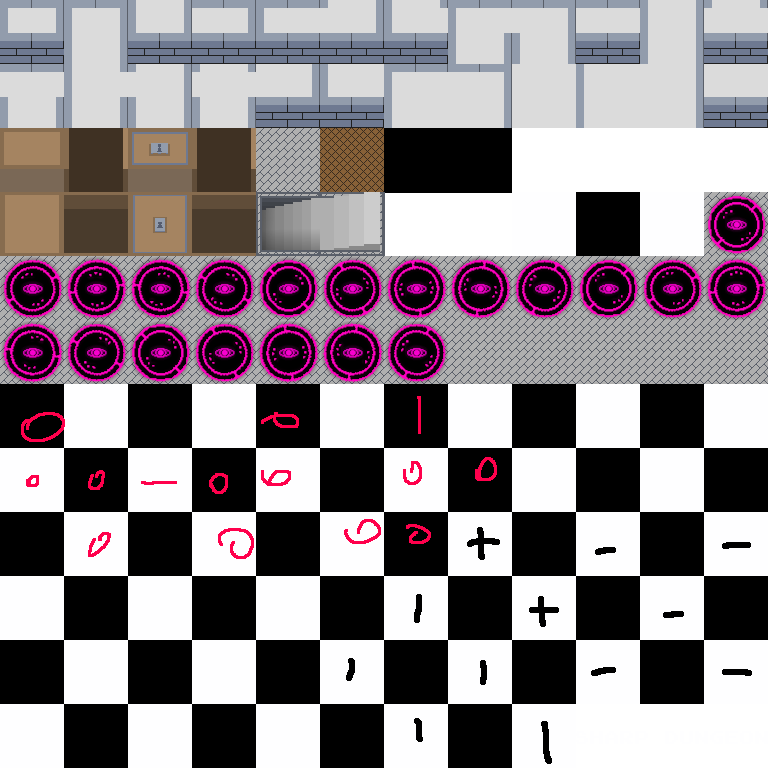
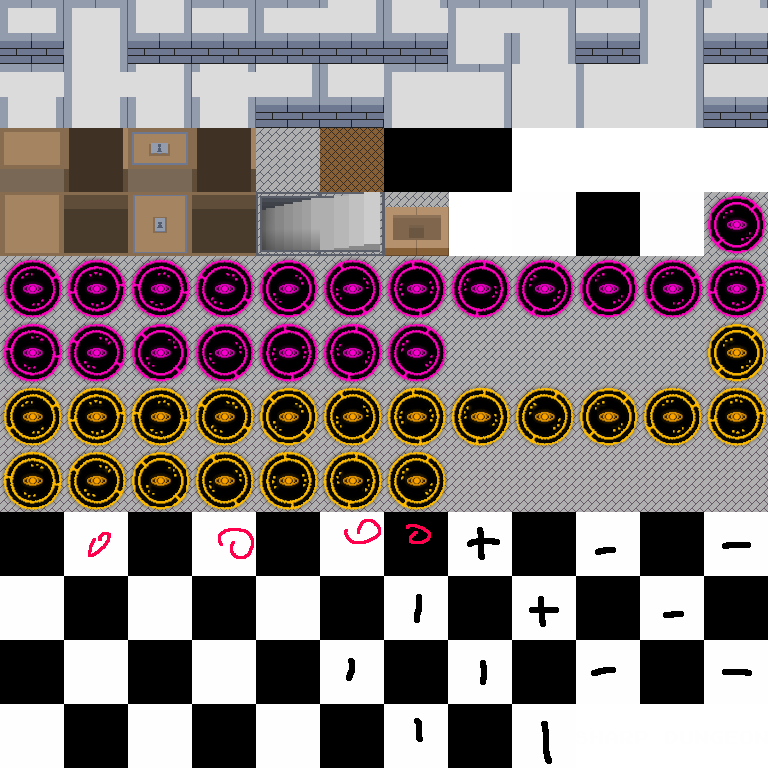
Added portals

Changed region(s): [[0.0, 0.4062, 1.0, 0.6875], [0.5, 0.25, 0.5938, 0.3438]]

diff --git a/SharpDungeon/Game/Graphics/Assets.cs b/SharpDungeon/Game/Graphics/Assets.cs
@@ -21,7 +21,7 @@ namespace SharpDungeon.Game.Graphics {
         //Tiles
 
         public static Bitmap air, stone, planks, upStairs, downStairs;
-        public static Bitmap[] stoneWall, door, shadowGate;
+        public static Bitmap[] stoneWall, door, shadowGate, etherGate;
 
         //Items
 
@@ -37,7 +37,7 @@ namespace SharpDungeon.Game.Graphics {
         //Player
 
         public static Bitmap[] playerIdle, playerWalkLeft, playerWalkRight, playerAttackLeft, playerAttackRight;
-        public static Bitmap[] slimeIdle, slimeWalk, slimeAttack;
+        public static Bitmap[] slimeIdle, slimeWalk, slimeAttackLeft, slimeAttackRight;
 
         public static Bitmap selection;
 
@@ -46,6 +46,9 @@ namespace SharpDungeon.Game.Graphics {
         public static Bitmap logo;
         public static Bitmap background, backgroundLoading;
         public static Bitmap[] newGameButton, loadSeedButton, optionsButton, exitButton;
+        public static Brush uiFore = new SolidBrush(Color.FromArgb(128, 128, 128));
+        public static Brush uiCent = new SolidBrush(Color.FromArgb(86, 86, 86));
+        public static Brush uiBack = new SolidBrush(Color.FromArgb(63, 63, 63));
 
         //Brushes
 
@@ -54,6 +57,8 @@ namespace SharpDungeon.Game.Graphics {
         public static Brush minMapBlack = new SolidBrush(Color.FromArgb(0, 0, 0));
         public static Brush minMapDoor = new SolidBrush(Color.FromArgb(122, 104, 86));
         public static Brush minMapOpenDoor = new SolidBrush(Color.FromArgb(142, 130, 119));
+        public static Brush minMapShadow = new SolidBrush(Color.FromArgb(153, 61, 137));
+        public static Brush minMapEther = new SolidBrush(Color.FromArgb(204, 155, 71));
 
         //Load textures
 
@@ -126,6 +131,29 @@ namespace SharpDungeon.Game.Graphics {
                 shadowGate[16] = tileSheet.crop(width * 3, height * 5, width, height);
                 shadowGate[17] = tileSheet.crop(width * 4, height * 5, width, height);
                 shadowGate[18] = tileSheet.crop(width * 5, height * 5, width, height);
+
+                etherGate = new Bitmap[19];
+                etherGate[0] = tileSheet.crop(width * 11, height * 5, width, height);
+
+                etherGate[1] = tileSheet.crop(0, height * 6, width, height);
+                etherGate[2] = tileSheet.crop(width, height * 6, width, height);
+                etherGate[3] = tileSheet.crop(width * 2, height * 6, width, height);
+                etherGate[4] = tileSheet.crop(width * 3, height * 6, width, height);
+                etherGate[5] = tileSheet.crop(width * 4, height * 6, width, height);
+                etherGate[6] = tileSheet.crop(width * 5, height * 6, width, height);
+                etherGate[7] = tileSheet.crop(width * 6, height * 6, width, height);
+                etherGate[8] = tileSheet.crop(width * 7, height * 6, width, height);
+                etherGate[9] = tileSheet.crop(width * 8, height * 6, width, height);
+                etherGate[10] = tileSheet.crop(width * 9, height * 6, width, height);
+                etherGate[11] = tileSheet.crop(width * 10, height * 6, width, height);
+                etherGate[12] = tileSheet.crop(width * 11, height * 6, width, height);
+
+                etherGate[13] = tileSheet.crop(0, height * 7, width, height);
+                etherGate[14] = tileSheet.crop(width, height * 7, width, height);
+                etherGate[15] = tileSheet.crop(width * 2, height * 7, width, height);
+                etherGate[16] = tileSheet.crop(width * 3, height * 7, width, height);
+                etherGate[17] = tileSheet.crop(width * 4, height * 7, width, height);
+                etherGate[18] = tileSheet.crop(width * 5, height * 7, width, height);
 
                 door = new Bitmap[4];
                 door[0] = tileSheet.crop(0, height * 2, width, height);

diff --git a/SharpDungeon/Game/Entities/Player.cs b/SharpDungeon/Game/Entities/Player.cs
@@ -15,6 +15,7 @@ namespace SharpDungeon.Game.Entities {
 
         Animation currentAnimation, walkLeft, walkRight;
         Bitmap stayTex;
+        public Inventory inventory { get; set; }
 
         Animation idle;
 
@@ -45,6 +46,7 @@ namespace SharpDungeon.Game.Entities {
             thisX = (int)x;
             thisY = (int)y;
 
+            inventory = new Inventory(handler);
             handler.game.gameCamera.centerOnEntity(this);
         }
 
@@ -56,6 +58,7 @@ namespace SharpDungeon.Game.Entities {
 
             currentAnimation.tick();
             handler.gameCamera.centerOnEntity(this);
+            inventory.tick();
 
                 //handler.world.setTile(Tile.shadowGate.getId(), 
                 //    handler.world.toWorldX(handler.mouseManager.mouseX), handler.world.toWorldY(handler.mouseManager.mouseY));
@@ -148,7 +151,8 @@ namespace SharpDungeon.Game.Entities {
 
             renderSelection(g);
 
-            g.FillRectangle(Brushes.White, 15, 15, handler.world.width * 8 + 10, handler.world.height * 8 + 10);
+            g.FillRectangle(Assets.uiFore, 5+10, 5+10, handler.world.width * 8 + 10, handler.world.height * 8 + 10);
+            g.FillRectangle(Assets.uiCent, 5+12, 5+12, handler.world.width * 8 + 8, handler.world.height * 8 + 8);
 
             for (int j = 0; j < handler.world.height; j++) {
                 for (int i = 0; i < handler.world.width; i++) {
@@ -159,6 +163,12 @@ namespace SharpDungeon.Game.Entities {
                         b = Assets.minMapDoor;
                     else if (tile is OpenDoorTile)
                         b = Assets.minMapBack;
+                    else if (tile is AirTile)
+                        b = Assets.minMapBlack;
+                    else if (tile is ShadowGateTile)
+                        b = Assets.minMapShadow;
+                    else if (tile is EtherGateTile)
+                        b = Assets.minMapEther;
                     else if (tile.isSolid())
                         b = Assets.minMapSolid;
                     else if (tile is StoneTile)
@@ -168,6 +178,8 @@ namespace SharpDungeon.Game.Entities {
                 }
             }
             TextRenderer.DrawText(g, $"offsetx = {handler.gameCamera.xOffset}\noffsety = {handler.gameCamera.yOffset}\nmid = {handler.mouseManager.mouseMid}\nmove = {handler.mouseManager.move}\ndirectionisnull? = {direction == null}\nwasMid = {wasMid}\nwasMid2 = {wasMid2}\nthisX = {thisX}\nthisY = {thisY}\ndirStepX = {dirStepX}\ndirStepY = {dirStepY}\nisRightAnimation = { ((int)x / Tile.tileWidth > handler.world.toWorldX(handler.mouseManager.mouseX)).ToString() }", Assets.themeFont, new Point(0, 500), Color.White);
+
+            inventory.render(g);
         }
 
         private void renderSelection(System.Drawing.Graphics g) {
@@ -189,7 +201,7 @@ namespace SharpDungeon.Game.Entities {
                                           Tile.tileHeight);
 
             if (handler.mouseManager.rightPressed)
-                handler.world.itemManager.addItem(Item.redTrash1.createNew(handler.world.toWorldX(handler.mouseManager.mouseX)*Tile.tileWidth, 
+                handler.world.itemManager.addItem(Item.shadowKey.createNew(handler.world.toWorldX(handler.mouseManager.mouseX)*Tile.tileWidth, 
                                                                          handler.world.toWorldY(handler.mouseManager.mouseY)*Tile.tileHeight));
         }
 

diff --git a/SharpDungeon/Game/World/World.cs b/SharpDungeon/Game/World/World.cs
@@ -235,21 +235,31 @@ namespace SharpDungeon.Game.World {
             ree = rooms.ElementAt(rooms.Count - 1);
             setTile(Tile.shadowGate.getId(), ree.Left+1, ree.Top+2);
 
-            StreamWriter f = new StreamWriter("file.txt");
-            StringBuilder sb = new StringBuilder();
+            //StreamWriter f = new StreamWriter("file.txt");
+            //StringBuilder sb = new StringBuilder();
 
             Rectangle re;
             re = rooms.ElementAt(3);
             //sb.Append($"reLeftBefore = {re.Left}\nreTopBefore = {re.Top}\nxOffBefore = {handler.gameCamera.xOffset}\n yOffBefore = {handler.gameCamera.yOffset}\n\n\n");
             spawnX = (int)(re.X*64 + 64 - handler.gameCamera.xOffset);
             spawnY = (int)(re.Y*64 + 128 - handler.gameCamera.yOffset);
+            setTile(Tile.etherGate.getId(), re.Left + 1, re.Top + 2);
 
             //sb.Append($"reLeft = {re.Left}\nreTop = {re.Top}\n xOff = {handler.gameCamera.xOffset}\n yOff = {handler.gameCamera.yOffset}\nreLeft*64+64 - xOff = {re.Left * 64 + 64 - handler.gameCamera.xOffset}\nint = {(int)(re.Left * 64 + 64 - handler.gameCamera.xOffset)}\n reTop * 64 + 128 - yOff = {re.Top * 64 + 128 - handler.gameCamera.yOffset}\nint = {(int)(re.Top * 64 + 128 - handler.gameCamera.yOffset)}");
             //f.WriteLine(sb.ToString());
             //f.Close();
 
+
             entityManager = new EntityManager(handler, new Player(handler, spawnX, spawnY));
             itemManager = new ItemManager(handler);
+
+
+            foreach (Rectangle r in rooms.ToList()) {
+                for (int x = r.X; x < r.Width-1; x++)
+                    for (int y = r.Y; y < r.Height-1; y++)
+                        if(rnd.Next(1, 10) == 1 && !getTile(x, y).isSolid())
+                            itemManager.addItem(Item.items[rnd.Next(0, 2)].createNew(x*Tile.tileWidth, y*Tile.tileHeight));
+            }
 
         }
 

diff --git a/SharpDungeon/Game/Items/Item.cs b/SharpDungeon/Game/Items/Item.cs
@@ -57,31 +57,32 @@ namespace SharpDungeon.Game.Items {
             this.name = name;
             this.id = id;
             count = 1;
-            itemShadow = new Animation(300, Assets.itemShadow);
+            itemShadow = new Animation(250, Assets.itemShadow);
 
             items[id] = this;
         }
 
         public void tick() {
-            if (handler.world.entityManager.player.x == x && handler.world.entityManager.player.y == y)
+            if (handler.world.entityManager.player.x == x && handler.world.entityManager.player.y == y) {
                 pickedUp = true;
+                handler.world.entityManager.player.inventory.addItem(this);
+            }
 
             itemShadow.tick();
 
             if (grad < 360)
-                grad++;
+                grad+=4;
             else
                 grad = 0;
 
-            yOff = (int)(Math.Sin((Math.PI * grad * 5 / 180.0)) * 15);
-            //inventory here, see github page!
+            yOff = (int)(Math.Sin((Math.PI * grad * 3 / 180.0)) * 15);
         }
 
         public void render(System.Drawing.Graphics g) {
             if (handler == null)
                 return;
-            g.DrawImage(itemShadow.getCurrentFrame(), (int)(x - handler.gameCamera.xOffset), (int)(y - handler.gameCamera.yOffset)+Tile.tileHeight/3);
-            g.DrawImage(texture, (int)(x-handler.gameCamera.xOffset), (int)(y-handler.gameCamera.yOffset)+yOff, itemWidth, itemHeight);
+            g.DrawImage(itemShadow.getCurrentFrame(), (int)(x - handler.gameCamera.xOffset), (int)(y - handler.gameCamera.yOffset));
+            g.DrawImage(texture, (int)(x-handler.gameCamera.xOffset), (int)(y-handler.gameCamera.yOffset)+yOff-5, itemWidth, itemHeight);
         }
 
         public Item createNew(int count) {

diff --git a/SharpDungeon/Game/Tiles/EtherGateTile.cs b/SharpDungeon/Game/Tiles/EtherGateTile.cs
@@ -1,13 +1,12 @@
 using SharpDungeon.Game.Graphics;
 using System;
 using System.Collections.Generic;
-using System.Drawing;
 using System.Linq;
 using System.Text;
 using System.Threading.Tasks;
 
 namespace SharpDungeon.Game.Tiles {
-    public class ShadowGateTile : TileSingleSide {
+    public class EtherGateTile : TileSingleSide {
 
         Animation an;
         //Random rnd;
@@ -16,8 +15,8 @@ namespace SharpDungeon.Game.Tiles {
         //int posX=-1, posY=-1;
         //int time = 0;
 
-        public ShadowGateTile(int id) : base(Assets.shadowGate[0], id) {
-            an = new Animation(10, Assets.shadowGate);
+        public EtherGateTile(int id) : base(Assets.etherGate[0], id) {
+            an = new Animation(10, Assets.etherGate);
             //rnd = new Random();
         }
 
@@ -52,18 +51,5 @@ namespace SharpDungeon.Game.Tiles {
             return false;
         }
 
-        //public void splitn(int x1, int y1, int x2, int y2, List<int> arr, int cnt) {
-
-        //    --cnt;
-
-        //    int xMiddle = (int)(x1 + x2) / 2 + rnd.Next(-10, 10);
-        //    int yMiddle = (int)(y1 + y2) / 2 + rnd.Next(-10, 10);
-
-        //    if (cnt > 0) splitn(x1, y1, xMiddle, yMiddle, arr, cnt);
-        //    arr.Add(xMiddle);
-        //    arr.Add(yMiddle);
-        //    if (cnt > 0) splitn(xMiddle, yMiddle, x2, y2, arr, cnt);
-
-        //}
     }
 }

diff --git a/SharpDungeon/Game/Items/Inventory.cs b/SharpDungeon/Game/Items/Inventory.cs
@@ -1,14 +1,18 @@
-using System;
+using SharpDungeon.Game.Graphics;
+using System;
 using System.Collections.Generic;
+using System.Drawing;
 using System.Linq;
 using System.Text;
 using System.Threading.Tasks;
+using System.Windows.Forms;
 
 namespace SharpDungeon.Game.Items {
     public class Inventory {
         private Handler handler;
         private bool active = false;
         private List<Item> inventoryItems;
+        private int xOff;
 
         public Inventory(Handler handler) {
             this.handler = handler;
@@ -24,7 +28,13 @@ namespace SharpDungeon.Game.Items {
         }
 
         public void render(System.Drawing.Graphics g) {
-
+            xOff = 0;
+            foreach (Item i in inventoryItems) {
+                xOff += 20;
+                g.DrawImage(i.texture, handler.world.height * 8 + xOff, 10, Item.itemWidth * 2, Item.itemHeight * 2);
+                xOff += Item.itemHeight * 2;
+                TextRenderer.DrawText(g, i.count.ToString(), Assets.themeFontBig, new System.Drawing.Point(handler.world.height * 8 + xOff, + Item.itemHeight), Color.White);
+            }
         }
         
         public void addItem(Item item) {

diff --git a/SharpDungeon/Game/Items/ItemManager.cs b/SharpDungeon/Game/Items/ItemManager.cs
@@ -15,10 +15,16 @@ namespace SharpDungeon.Game.Items {
         }
         public void tick() {
 
-            IEnumerator<Item> it = items.GetEnumerator();
+            //IEnumerator<Item> it = items.GetEnumerator();
 
-            while (it.MoveNext()) {
-                Item i = it.Current;
+            //while (it.MoveNext()) {
+            //    Item i = it.Current;
+            //    i.tick();
+            //    if (i.pickedUp)
+            //        items.Remove(i);
+            //}
+
+            foreach(Item i in items.ToList()) {
                 i.tick();
                 if (i.pickedUp)
                     items.Remove(i);

diff --git a/SharpDungeon/Game/Entities/Slime.cs b/SharpDungeon/Game/Entities/Slime.cs
@@ -1,0 +1,25 @@
+using System;
+using System.Collections.Generic;
+using System.Drawing;
+using System.Linq;
+using System.Text;
+using System.Threading.Tasks;
+
+namespace SharpDungeon.Game.Entities {
+    public class Slime : Entity {
+        public Slime(Handler handler, int worldX, int worldY) : base(handler, worldX, worldY, defaultWidth, defaultHeight) {
+        }
+
+        public override void die() {
+            
+        }
+
+        public override void render(System.Drawing.Graphics g) {
+            
+        }
+
+        public override void tick() {
+            
+        }
+    }
+}

diff --git a/SharpDungeon/Game/Tiles/Tile.cs b/SharpDungeon/Game/Tiles/Tile.cs
@@ -18,6 +18,7 @@ namespace SharpDungeon.Game.Tiles {
         public static Tile openDoor = new OpenDoorTile(4);
         public static Tile planks = new PlanksTile(5);
         public static Tile shadowGate = new ShadowGateTile(6);
+        public static Tile etherGate = new EtherGateTile(7);
 
         public static readonly int tileWidth = 64,
                                    tileHeight = 64;

diff --git a/SharpDungeon/Game/Entities/EntityManager.cs b/SharpDungeon/Game/Entities/EntityManager.cs
@@ -23,7 +23,7 @@ namespace SharpDungeon.Game.Entities {
         }
 
         public void tick() {
-            foreach(Entity e in entities) {
+            foreach(Entity e in entities.ToList()) {
                 e.tick();
                 if (!e.isActive())
                     entities.Remove(e);

diff --git a/SharpDungeon/Game/Tiles/DownStairsTile.cs b/SharpDungeon/Game/Tiles/DownStairsTile.cs
@@ -1,0 +1,10 @@
+using System;
+using System.Collections.Generic;
+using System.Linq;
+using System.Text;
+using System.Threading.Tasks;
+
+namespace SharpDungeon.Game.Tiles {
+    class DownStairsTile {
+    }
+}

diff --git a/SharpDungeon/Game/Tiles/CraftingTable.cs b/SharpDungeon/Game/Tiles/CraftingTable.cs
@@ -1,0 +1,10 @@
+using System;
+using System.Collections.Generic;
+using System.Linq;
+using System.Text;
+using System.Threading.Tasks;
+
+namespace SharpDungeon.Game.Tiles {
+    class CraftingTable {
+    }
+}
